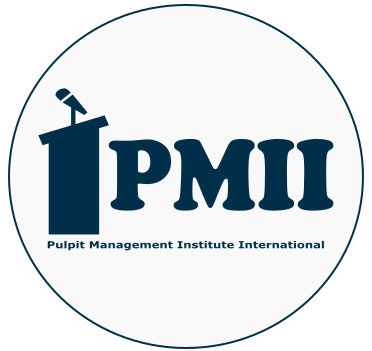
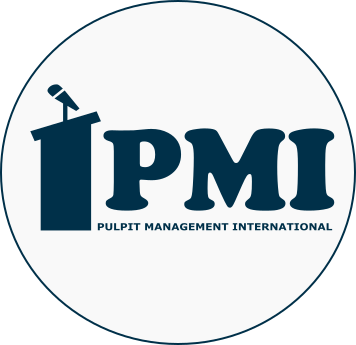
update app name

Changed region(s): [[0.0, 0.0, 1.0, 1.0]]

diff --git a/public/css/style.css b/public/css/style.css
@@ -1646,11 +1646,12 @@ a:focus {
   object-fit: cover;
   object-position: center;
   height: 100px;
+  width: 300px;
 }
 
 .team-image {
   object-fit: cover;
-  object-position: center;
+  object-position: 50% 0%;
   height: 300px;
-  width: 300px;
+  width: 100%;
 }

diff --git a/database/seeders/TeamMemberSeeder.php b/database/seeders/TeamMemberSeeder.php
@@ -21,25 +21,25 @@ class TeamMemberSeeder extends Seeder
                 'slug' => 'ojenike-barnabas-ikechukwu',
                 'title' => 'Director',
                 'qualification' => 'BA Mission',
-                'picture' => 'images/team/personplaceholder.jpg',
+                'picture' => 'images/team/ojenike-barnabas.jpg',
+                'created_at' => now(),
+                'updated_at' => now(),
+            ],
+            [
+                'name' => 'Dani Chudier Lul Kuar',
+                'slug' => 'dani-chudier-lul-kuar',
+                'title' => 'Adminstrator',
+                'qualification' => 'BA Mission',
+                'picture' => 'images/team/dan-chudier.jpg',
                 'created_at' => now(),
                 'updated_at' => now(),
             ],
             [
                 'name' => 'Bigda Oum Rufus',
                 'slug' => 'bigda-oum-rufus',
-                'title' => 'Instructor',
+                'title' => 'Board of Trustees Chairman',
                 'qualification' => 'BA Mission',
-                'picture' => 'images/team/personplaceholder.jpg',
-                'created_at' => now(),
-                'updated_at' => now(),
-            ],
-            [
-                'name' => 'Bechem Manfred',
-                'slug' => 'bechem-manfred',
-                'title' => 'Instructor',
-                'qualification' => 'BA Mission',
-                'picture' => 'images/team/personplaceholder.jpg',
+                'picture' => 'images/team/bigda-oum.jpg',
                 'created_at' => now(),
                 'updated_at' => now(),
             ],

diff --git a/resources/views/pages/team/detail.blade.php b/resources/views/pages/team/detail.blade.php
@@ -1,0 +1,25 @@
+@extends('layouts.main')
+ 
+@section('title', $member->name)
+@section('content')
+
+<section class="product-header pt-0">
+  <div class="container">
+    <div class="row">
+      <div class="col-md-12">
+        <div class="block text-center">
+          <span class="title-span">{{ $member->title }}</span>
+          <h1 class="text-capitalize mb-5 text-lg title-text">{{ $member->name }}</h1>
+          <p class="description-text p-0 m-1">{{$member->qualification}}</p>
+        </div>
+      </div>
+    </div>
+  </div>
+</section>
+<section class="details-wrapper" style="padding: 15px;">
+   <div class="row" style="margin: 0 15px; justify-content: center;">
+    @include('partials.team.card', ['member' => $member, 'm' => 0, 'classes' => 'col-lg-4 col-sm-12 col-md-6'])
+   </div>
+</section>
+
+@endsection

diff --git a/app/Http/Controllers/TeamController.php b/app/Http/Controllers/TeamController.php
@@ -3,6 +3,7 @@
 namespace App\Http\Controllers;
 
 use Illuminate\Http\Request;
+use App\Models\TeamMember;
 
 class TeamController extends Controller
 {
@@ -14,14 +15,10 @@ class TeamController extends Controller
      */
     public function show($slug)
     {
-        // $product = Product::where('slug', $slug)->first();
+        $member = TeamMember::where('slug', $slug)->first();
         
-        // return view('pages.product.detail', [
-        //     'product' => $product,
-        //     'manufacturer' => $manufacturer,
-        //     'title' => $product->name,
-        //     'description' => $product->description,
-        // ]);
-        return $slug;
+        return view('pages.team.detail', [
+            'member' => $member
+        ]);
     }
 }

diff --git a/resources/views/layouts/main.blade.php b/resources/views/layouts/main.blade.php
@@ -10,6 +10,10 @@
 
 	<!-- Favicon -->
 	<link rel="shortcut icon" type="image/x-icon" href="{{asset('images/favicon.ico')}}" />
+	<link rel="icon" type="image/png" href="{{asset('images/favicon-96x96.png')}}" sizes="96x96" />
+	<link rel="icon" type="image/svg+xml" href="{{asset('images/favicon.svg')}}" />
+	<link rel="apple-touch-icon" sizes="180x180" href="{{asset('images/apple-touch-icon.png')}}" />
+	<link rel="manifest" href="{{asset('site.webmanifest')}}" />
 	<!-- SEO -->
 	<meta
 		name="description"

diff --git a/resources/views/pages/landing.blade.php b/resources/views/pages/landing.blade.php
@@ -9,7 +9,7 @@
     <div class="row justify-content-center">
       <div class="col-lg-9">
         <div class="block text-center">
-          <h1 class="text-capitalize mb-4 text-lg">PULPIT MANAGEMENT INSTITUTE INTERNATIONAL</h1>
+          <h1 class="text-capitalize mb-4 text-lg">PULPIT MANAGEMENT INTERNATIONAL</h1>
 			<p>A missionary Organization of the Church of Christ, affiliated to Church of Christ Butere
 			Western Kenyan</p>
         </div>

diff --git a/config/app.php b/config/app.php
@@ -15,7 +15,7 @@ return [
     |
     */
 
-    'name' => env('APP_NAME', 'PMI International'),
+    'name' => env('APP_NAME', 'PMI'),
 
     /*
     |--------------------------------------------------------------------------
